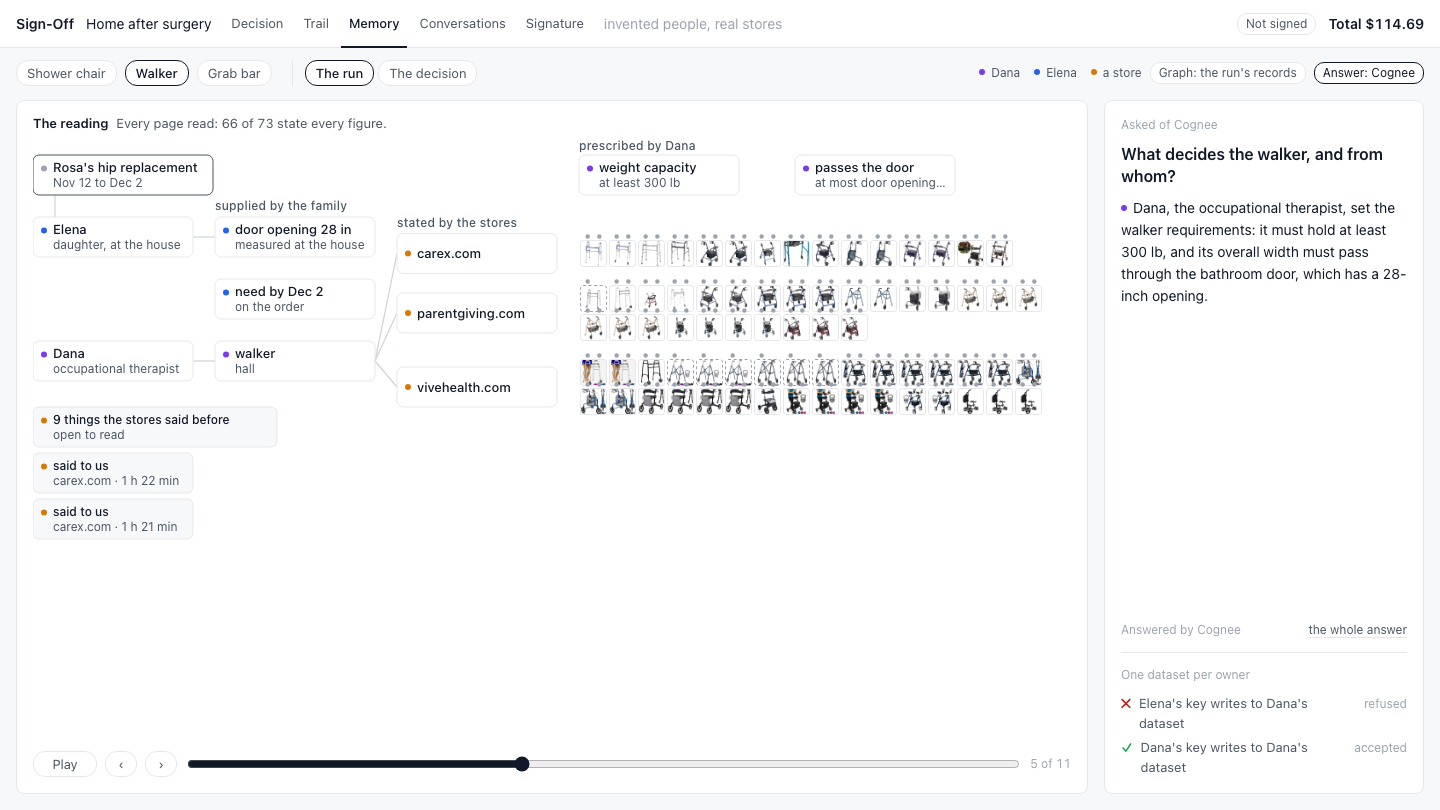
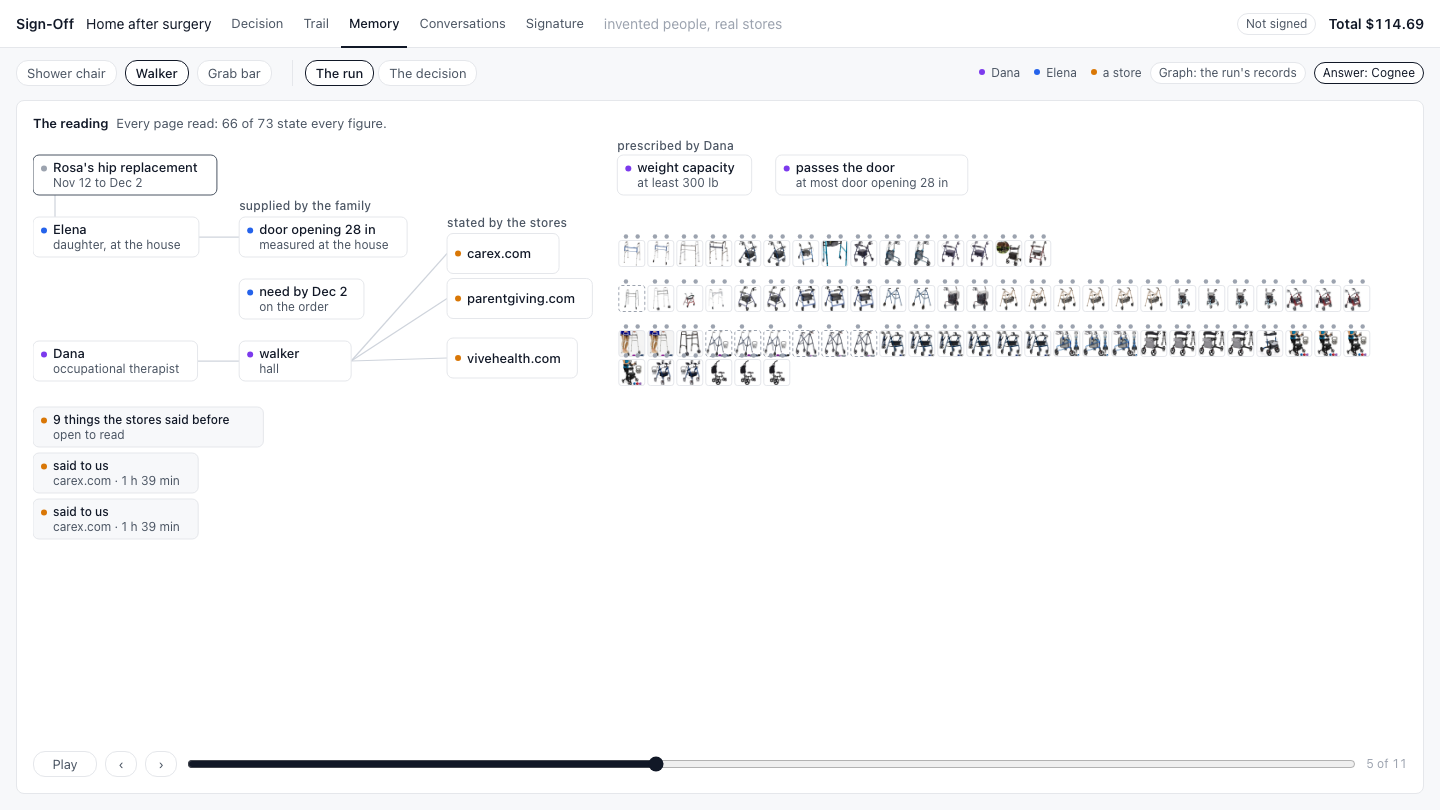
GRAPH: no ellipsis in the replay: cards sized to their text, names wrapped under the photo, sites in full; side panel opens over the canvas; a failed read is said

diff --git a/web/graph/explore.js b/web/graph/explore.js
@@ -9,9 +9,29 @@ const esc = (s) => String(s ?? "").replace(/[&<>"]/g, (c) => ({ "&": "&amp;", "<
 const ownerClass = (o) => (o === "issuer" || o === "shopper" ? o : o === "system" || o === "web" ? "" : "store");
 const short = (s, n) => (String(s || "").length > n ? String(s).slice(0, n - 1).trimEnd() + "…" : String(s || ""));
 const clock = (at) => (at ? String(at).slice(11, 16) : "");
-const FW = px(180);                                                // a fact quoted from a message is a wider card
-const GW = px(244);                                                // the one node that stands for everything recalled
-const boxW = (n) => (n.group ? GW : n.kind === "context_fact" || n.kind === "event" ? FW : CW);
+const INK = document.createElement("canvas").getContext("2d");
+const FACE = getComputedStyle(document.documentElement).getPropertyValue("--f") || "system-ui, sans-serif";
+/** The width a text takes at a size (in the design's px) and weight, with a little room to spare. */
+function wide(text, size, weight = 400) { INK.font = `${weight} ${px(size)}px ${FACE}`; return INK.measureText(String(text ?? "")).width * 1.05; }
+/** Whole words onto as many lines as it takes for each to fit `max`; a word is never broken or cut. */
+function wrap(text, size, weight, max) {
+  const lines = [];
+  for (const word of String(text ?? "").split(/\s+/).filter(Boolean)) {
+    const last = lines[lines.length - 1];
+    if (last != null && wide(last + " " + word, size, weight) <= max) lines[lines.length - 1] = last + " " + word;
+    else lines.push(word);
+  }
+  return lines;
+}
+const WIDTHS = new Map();
+/** A card is as wide as its words need. */
+function boxW(n) {
+  if (!WIDTHS.has(n.id)) {
+    const one = n.kind === "store" || !n.sub;
+    WIDTHS.set(n.id, Math.max(px(112), Math.max(wide(n.label, 13, 500), one ? 0 : wide(n.sub, 12)) + px(32)));
+  }
+  return WIDTHS.get(n.id);
+}
 const REASONS = ["outside", "unclear", "not stated", "struck", "struck before"];
 
 let X = null;      // the mounted exploration: data, elements, current stage and positions
@@ -36,8 +56,10 @@ function plan(k) {
   S.forEach((s, i) => s.node_ids_set_aside.forEach((id) => asideAt.set(id, i)));
   const P = new Map(), lines = [], texts = [];
   let leftBottom = 2 * (CH + px(22));
-  const put = (id, x, y, more = {}) => P.set(id, { x, y, ...more, o: (added.get(id) ?? 0) <= k ? more.o ?? 1 : 0 });
-  const GAP = px(22), XI = CW + GAP, XS = XI + CW + GAP, PX0 = XS + CW + px(22), YROW = H * 0.57, YB = H * 0.77;
+  const put = (id, x, y, more = {}) => P.set(id, { x, y, w: nodes.has(id) && nodes.get(id).kind !== "product" ? boxW(nodes.get(id)) : undefined, ...more, o: (added.get(id) ?? 0) <= k ? more.o ?? 1 : 0 });
+  const GAP = px(22), wOf = (kinds) => Math.max(px(112), ...data.nodes.filter((n) => kinds.includes(n.kind)).map(boxW));
+  const XI = wOf(["person", "event", "context_person"]) + GAP, XS = XI + wOf(["order_item", "home_fact", "sheet_value", "context_message"]) + GAP;
+  const PX0 = XS + wOf(["store", "web"]) + px(22), YROW = H * 0.57, YB = H * 0.77, FW = wOf(["context_fact"]);
 
   // the order: who, the item, the measurement
   const people = data.nodes.filter((n) => n.kind === "person");
@@ -55,8 +77,9 @@ function plan(k) {
     around.forEach((n, i) => put(n.id, 0, CH + px(26) + i * (CH + px(10))));
     notes.forEach((n, i) => put(n.id, XI, i * (CH + px(10))));
     const fy = new Map();
-    known.forEach((n, i) => { fy.set(n.id, i * (CH + px(6))); put(n.id, XS, fy.get(n.id), { w: FW, o: k >= iOrder && !n.used ? 0.4 : 1 }); });
-    const XD = XS + FW + px(150), XE = XD + CW + px(18);
+    known.forEach((n, i) => { fy.set(n.id, i * (CH + px(6))); put(n.id, XS, fy.get(n.id), { o: k >= iOrder && !n.used ? 0.4 : 1 }); });
+    const verbs = data.edges.filter((e) => e.feeds).map((e) => wide(e.verb + " ✓", 12));
+    const XD = XS + FW + Math.max(px(120), ...verbs) + px(28), XE = XD + wOf(["person"]) + px(18);
     const want = (id) => { const ys = data.edges.filter((e) => e.feeds && e.to === id).map((e) => fy.get(e.from)); return ys.length ? ys.reduce((a, b) => a + b, 0) / ys.length : null; };
     const issuer = people.find((n) => n.id === "person:issuer"), shopper = people.find((n) => n.id === "person:shopper");
     [item, ...limits].forEach((n, i) => put(n.id, XE, i * (CH + px(8))));          // prescribed: the order and its rules
@@ -86,14 +109,15 @@ function plan(k) {
     leftBottom = yD + ROW;
     if (data.sources?.supplied && supplied.length) texts.push({ x: XI, y: yS - px(7), cls: "src", html: esc(data.sources.supplied) });
     // the rules, above the products
-    limits.forEach((n, i) => put(n.id, PX0 + i * (CW + px(56)), 0));
+    let lx = PX0;
+    limits.forEach((n) => { put(n.id, lx, 0); lx += boxW(n) + px(24); });
     // the event's people, messages and facts fold back into it
     [...around, ...notes, ...known].forEach((n) => put(n.id, 0, 0, { o: 0, w: boxW(n) }));
   }
   // what it already knows: one node for all of it, and on their own only the few that bear on this item's pick
   const memories = data.nodes.filter((n) => n.kind === "memory");
   const own = memories.filter((n) => n.own), all = memories.find((n) => n.group);
-  if (all) put(all.id, 0, leftBottom + px(4), { w: GW });
+  if (all) put(all.id, 0, leftBottom + px(4));
   own.forEach((n, i) => put(n.id, 0, leftBottom + px(4) + (i + (all ? 1 : 0)) * (CH + px(6))));
   memories.filter((n) => !n.own && !n.group).forEach((n) => put(n.id, 0, leftBottom + px(4), { o: 0 }));
 
@@ -145,17 +169,19 @@ function plan(k) {
   const searched = reviews.map((r) => r.product);
   const order = iRank >= 0 ? S[iRank].order : [];
   const webbed = iWeb >= 0 && k >= iWeb;
-  const RBIG = px(36), GS = 1.15, CY = H * 0.47;
-  const gateX = W - CW * GS - px(2), leftEdge = XI + CW + px(26), head = gateX - px(40) - RBIG;
+  const RBIG = px(36), GS = 1.15, CY = H * 0.34;
+  const gateW = nodes.has("gate") ? boxW(nodes.get("gate")) * GS : 0;
+  const gateX = W - gateW - px(2), leftEdge = XS + px(40), head = gateX - px(52) - RBIG;
   let TOP = Math.min(5, order.length);
-  while (TOP > 2 && (head - leftEdge - RBIG) / (TOP - 1) < px(104)) TOP -= 1;
+  while (TOP > 2 && (head - leftEdge - RBIG) / (TOP - 1) < px(132)) TOP -= 1;
   const big = new Set(ranked ? order.slice(0, TOP) : webbed ? searched : []);
   const linePos = new Map();
   if (ranked) {
     const n = TOP, step = n > 1 ? Math.min(px(170), (head - leftEdge - RBIG) / (n - 1)) : 0;
     order.slice(0, TOP).forEach((id, i) => linePos.set(id, { x: head - i * step, y: CY }));
     // the rest that pass, in order, in a quiet block under them
-    const tail = order.slice(TOP), trows = 2, tsp = px(18), ty = CY + RBIG + px(100);
+    const tail = order.slice(TOP), trows = 2, tsp = px(18), named0 = order.slice(0, TOP).map((id) => wrap(nodes.get(id).label, 14, 600, (TOP > 1 ? step : px(200)) - px(14)).length);
+    const ty = CY + RBIG + px(32) + Math.max(1, ...named0) * px(17) + px(72);
     tail.forEach((id, i) => linePos.set(id, { x: leftEdge + px(8) + Math.floor(i / trows) * tsp, y: ty + (i % trows) * tsp }));
     if (tail.length) texts.push({ x: leftEdge + px(8) + Math.ceil(tail.length / trows) * tsp + px(6), y: ty + px(13), cls: "gs", html: `${tail.length} more that pass` });
   } else if (webbed) {
@@ -165,8 +191,8 @@ function plan(k) {
 
   if (asking) {
     const LANE = px(24), MW = px(84), RW = px(64), xp = PX0 + RB, spine = xp + RB + px(10), xm = spine + px(10);
-    const storeX = W - CW, xr2 = storeX - RW - px(36), xg = (xm + MW + xr2) / 2;
-    const room = xg - (xm + MW), shown = Math.max(1, Math.floor((2 * room - px(34)) / px(70)));   // how many withheld parts fit on the line
+    const storeX = W - wOf(["store"]), xr2 = storeX - RW - px(36), xg = (xm + MW + xr2) / 2;
+    const room = xg - (xm + MW);
     let ly = YROW - px(46), kept = 0;
     const top = ly;
     for (const pid of S[iAsk].row || []) {
@@ -178,10 +204,12 @@ function plan(k) {
       lines.push({ raw: [xp + RB, cy, spine, cy], cls: "" }, { raw: [spine, ly + px(9), spine, ly + (mine.length - 1) * LANE + px(9)], cls: "" });
       for (const m of mine) {
         const y9 = ly + px(9), chips = m.removed || [];
+        let shown = chips.length;                                   // as many whole parts as fit on the line, never a cut one
+        while (shown > 1 && wide(chips.slice(0, shown).map((c) => c.text).join(" · ") + " +9", 12, 500) > 2 * room - px(16)) shown -= 1;
         P.set(m.id, { x: xm, y: ly, o: 1, w: MW, h: px(18) });
         lines.push({ raw: [spine, y9, xm, y9], cls: "" }, { raw: [xm + MW, y9, xg, y9], cls: m.stopped ? "fails" : "lit" });
         // what the guard withheld sits on the guard line, struck
-        if (chips.length) texts.push({ x: xg, y: y9 + px(3.5), cls: "chip on mid", html: chips.slice(0, shown).map((c) => esc(short(c.text, 9))).join(" · ") + (chips.length > shown ? ` +${chips.length - shown}` : "") });
+        if (chips.length) texts.push({ x: xg, y: y9 + px(3.5), cls: "chip on mid", html: chips.slice(0, shown).map((c) => esc(c.text)).join(" · ") + (chips.length > shown ? ` +${chips.length - shown}` : "") });
         const r = data.nodes.find((n) => n.kind === "reply" && n.message === m.id);
         if (r) {
           P.set(r.id, { x: xr2, y: ly, o: 1, w: RW, h: px(18) });
@@ -202,7 +230,7 @@ function plan(k) {
   for (const p of products) {
     const h = home.get(p.id), born = k >= iSearch, gone = asidePos.get(p.id), line = linePos.get(p.id);
     const src = P.get(h.store);
-    const where = !born ? { x: src.x + CW / 2, y: src.y + CH / 2 } : gone || line || h;
+    const where = !born ? { x: src.x + src.w / 2, y: src.y + CH / 2 } : gone || line || h;
     P.set(p.id, { ...where, o: born ? (gone ? 0.75 : 1) : 0, r: gone ? (gone.quiet ? RQ : RS) : big.has(p.id) ? (ranked ? RBIG : RB) : ranked ? px(8) : R,
       big: big.has(p.id) && !gone, aside: !!gone, dashed: k >= iRead && (S[iRead]?.not_stated || []).includes(p.id),
       read: k >= iRead, pick: ranked && p.picked, checked: limits.filter((l) => { const i = S.findIndex((x) => x.limit === l.id); return i >= 0 && i <= k; }).map((l) => l.id) });
@@ -210,10 +238,10 @@ function plan(k) {
   if (web) put(web.id, XS, YROW - CH / 2, ranked ? { o: 0 } : {});
   reviews.forEach((r) => {
     const p = P.get(r.product);
-    P.set(r.id, { x: p.x - px(36), y: p.y + p.r + px(ranked ? 12 : 9), o: (added.get(r.id) ?? 99) <= k && p.big && !asking ? 1 : 0, pill: true });
+    P.set(r.id, { x: p.x - px(36), y: p.y + p.r + px(10), w: px(72), h: px(18), o: (added.get(r.id) ?? 99) <= k && p.big && !asking ? 1 : 0, pill: true });
   });
   // the gate, and the cart beyond it
-  if (nodes.has("gate")) put("gate", gateX, CY - (CH * GS) / 2, { gate: true, s: GS, w: CW * GS, h: CH * GS });
+  if (nodes.has("gate")) put("gate", gateX, CY - (CH * GS) / 2, { gate: true, s: GS, w: gateW, h: CH * GS });
   data.nodes.filter((n) => n.kind === "cart").forEach((n, i) => put(n.id, gateX, CY + CH * GS + px(14) + i * (CH + px(8))));
 
   // the lines of this stage
@@ -221,7 +249,7 @@ function plan(k) {
   const card = (a, b, cls = "", label = "") => { if (vis(a) && vis(b)) lines.push({ a, b, cls, label, card: true }); };
   for (const e of data.edges) {
     if (e.feeds) { if (k >= iOrder && vis(e.from) && vis(e.to)) lines.push({ a: e.from, b: e.to, card: true, cls: e.matches === false ? "fails" : "lit",
-      label: short(e.verb, 22) + (e.matches === true ? " ✓" : e.matches === false ? " ✕" : ""), lt: nodes.get(e.to)?.kind === "person" ? 0.5 : 0.25 }); }
+      label: e.verb + (e.matches === true ? " ✓" : e.matches === false ? " ✕" : ""), lt: nodes.get(e.to)?.kind === "person" ? 0.5 : 0.3 }); }
     else if (e.verb === "says") card(e.from, e.to, "", "");
     else if (e.verb === "wrote" && nodes.get(e.to)?.kind === "context_message") { if (nodes.get(e.from)?.kind === "context_person") card(e.from, e.to, "", ""); }
     else if (e.prescribed) { if (eventPhase) card(e.from, e.to, "", ""); }
@@ -249,17 +277,19 @@ function plan(k) {
     }
   }
   if (ranked) {
-    order.slice(0, TOP).forEach((id) => {
+    const room = (TOP > 1 ? Math.abs(P.get(order[0]).x - P.get(order[1]).x) : px(200)) - px(14), LH = px(17);
+    const named = order.slice(0, TOP).map((id) => ({ id, lines: wrap(nodes.get(id).label, 14, 600, room) }));
+    const most = Math.max(1, ...named.map((x) => x.lines.length));
+    named.forEach(({ id, lines }) => {
       const n = nodes.get(id), p = P.get(id);
-      const room = order.length > 1 ? Math.abs(P.get(order[0]).x - P.get(order[1]).x) : px(170);
-      texts.push({ x: p.x, y: p.y - p.r - px(24), cls: "pn big mid", html: esc(short(n.label, Math.max(8, Math.min(20, Math.floor(room / px(8.8)))))) });
-      texts.push({ x: p.x, y: p.y - p.r - px(8), cls: "pp big mid", html: esc((n.sub || "").split(" · ")[0]) + (n.picked ? " · the pick" : "") });
+      lines.forEach((t, i) => texts.push({ x: p.x, y: p.y + p.r + px(20) + i * LH, cls: "pn big mid", html: esc(t) }));
+      texts.push({ x: p.x, y: p.y + p.r + px(22) + most * LH, cls: "pp big mid", html: esc((n.sub || "").split(" · ")[0]) + (n.picked ? " · the pick" : "") });
+      const r = reviews.find((x) => x.product === id);
+      if (r && P.get(r.id)) Object.assign(P.get(r.id), { x: p.x - px(36), y: p.y + p.r + px(32) + most * LH });
     });
-  } else if (webbed) {
-    const fit = Math.max(6, Math.floor(Math.min(px(120), (W - PX0 - px(6)) / Math.max(1, searched.length)) / px(7.4)));
-    searched.forEach((id) => { const p = P.get(id); if (p.big) texts.push({ x: p.x, y: p.y - RB - px(7), cls: "pn mid", html: esc(short(nodes.get(id).label, fit)) }); });
+    X.rankedBottom = CY + RBIG + px(32) + most * LH + px(52);
   }
-  if (asking) (S[iAsk].row || []).forEach((id) => { const p = P.get(id); texts.push({ x: p.x + RB, y: p.y + RB + px(14), cls: "pn end", html: esc(short(nodes.get(id).label, 16)) }); });
+  if (asking) (S[iAsk].row || []).forEach((id) => { const p = P.get(id); wrap(nodes.get(id).label, 13, 500, px(170)).forEach((t, i) => texts.push({ x: p.x + RB, y: p.y + RB + px(16) + i * px(16), cls: "pn end", html: esc(t) })); });
   return { P, lines, texts };
 }
 
@@ -273,17 +303,17 @@ function glyph(n) {
   if (n.kind === "product") {
     // a product is its photo; with no photo, a plain tile carrying the first word of its name
     const img = n.image_url ? `<image class="ph" href="${esc(thumb(n.image_url))}" preserveAspectRatio="xMidYMid slice"/>` : "";
-    return `<title>${esc(n.label)} · ${esc(n.sub || "")}</title><rect class="c"/><text class="tw mid">${esc(short(String(n.label || "").split(/\s+/)[0], 4))}</text>${img}<rect class="bd"/><rect class="ring"/><circle class="q q0"/><circle class="q q1"/>`;
+    return `<title>${esc(n.label)} · ${esc(n.sub || "")}</title><rect class="c"/><text class="tw mid">${esc(String(n.label || "").split(/\s+/)[0].slice(0, 4))}</text>${img}<rect class="bd"/><rect class="ring"/><circle class="q q0"/><circle class="q q1"/>`;
   }
   const one = n.kind === "store" || !n.sub;                           // a store's card needs no second line
   const dot = n.kind === "web" || n.kind === "review" ? "" : `<circle class="od ${ownerClass(n.owner)}" cx="${px(11)}" cy="${one ? CH / 2 : px(13.5)}" r="${px(3)}"/>`;
   const tx = dot ? px(20) : px(10);
   if (n.kind === "message") return `<title>${esc(n.sub || "")}</title><rect class="b pill${n.stopped ? " stopped" : ""}" width="${px(84)}" height="${px(18)}" rx="${px(9)}"/><text class="l mid" x="${px(42)}" y="${px(12.5)}">${esc(n.label)}</text>`;
   if (n.kind === "reply") return `<title>${esc(n.sub || "")}</title><rect class="b pill" width="${px(64)}" height="${px(18)}" rx="${px(9)}"/><circle class="od store" cx="${px(12)}" cy="${px(9)}" r="${px(3)}"/><text class="l" x="${px(21)}" y="${px(12.5)}">reply</text>`;
-  if (n.kind === "review") return `<rect class="b pill" width="${px(72)}" height="${px(18)}" rx="${px(9)}"/><text class="l mid" x="${px(36)}" y="${px(12.5)}">${esc(short(n.label, 11))}</text><text class="s mid" x="${px(36)}" y="${px(32)}">${esc(short(n.sub, 15))}</text>`;
+  if (n.kind === "review") return `<rect class="b pill" width="${px(72)}" height="${px(18)}" rx="${px(9)}"/><text class="l mid" x="${px(36)}" y="${px(12.5)}">${esc(n.label)}</text><text class="s mid" x="${px(36)}" y="${px(33)}">${esc(n.sub)}</text>`;
   const w = boxW(n), room = (w - tx - px(6)) / px(6.9);
   return `<title>${esc(n.label)}</title><rect class="b" width="${w}" height="${CH}" rx="${px(6)}"/>${dot}
-    <text class="l" x="${tx}" y="${one ? CH / 2 + px(4.5) : px(17)}">${esc(short(n.label, Math.floor(room)))}</text>${one ? "" : `<text class="s" x="${tx}" y="${px(32)}">${esc(short(n.sub, Math.floor((w - tx - px(6)) / px(6.0))))}</text>`}
+    <text class="l" x="${tx}" y="${one ? CH / 2 + px(4.5) : px(17)}">${esc(n.label)}</text>${one ? "" : `<text class="s" x="${tx}" y="${px(32)}">${esc(n.sub)}</text>`}
     ${n.kind === "gate" ? `<path class="bar" d="M${-px(12)} ${-px(14)}V${CH + px(14)}"/>` : ""}`;
 }
 

diff --git a/web/graph/graph.js b/web/graph/graph.js
@@ -28,7 +28,7 @@ const STATUS = { inside: "meets the order", outside: "outside", unclear: "unclea
 
 let data = null, cognee = null, answer = null, stamp = "", sel = params.get("node"), line = params.get("line_id");
 // Two views of one item: the run growing as a graph (the default), and the five-column detail of the decision.
-let whole = false;
+let whole = false, showAnswer = false;
 let view = params.get("view") === "detail" ? "detail" : "explore", xdata = null, xkey = "", opened = false;
 const active = () => (view === "explore" && xdata?.nodes ? xdata : data);
 
@@ -129,7 +129,10 @@ function drawExplore() {
   $("#ctl").hidden = false;
   controls();
   if (!$("#heads").innerHTML) $("#heads").innerHTML = `<span class="st"><b>&nbsp;</b></span>`;
-  if (!xdata?.stages) { $("#stage").innerHTML = ""; $("#heads").innerHTML = ""; return; }
+  if (!xdata?.stages) {                                               // said, never a blank canvas
+    $("#stage").innerHTML = `<p class="muted" style="padding:1rem 0">${esc(xdata?.error || "The run's records could not be read.")}</p>`;
+    $("#heads").innerHTML = ""; xkey = ""; return;
+  }
   const key = JSON.stringify([xdata, innerWidth, innerHeight]);
   if (key === xkey) return;
   const same = xkey && JSON.parse(xkey)[0].line_id === xdata.line_id;
@@ -222,7 +225,7 @@ function renderBand() {
   $("#band").innerHTML = `${chips}<span class="grow"></span>
     <span class="legend" title="The mark shows whose knowledge it is">${who}</span>
     <span class="pill" title="${esc(data.backend_note)}">Graph: the run's records</span>
-    <span class="pill ${answer?.answered ? "signed" : ""}">${answer?.answered ? "Answer: Cognee" : "Cognee: no answer"}</span>`;
+    <button class="pill ${answer?.answered ? "signed" : ""}" data-answer>${answer?.answered ? "Answer: Cognee" : "Cognee: no answer"}</button>`;
 }
 
 function sourceLine(s) {
@@ -250,6 +253,7 @@ function quoted(n) {
 }
 
 function renderSide() {
+  document.body.classList.toggle("open", !!sel || showAnswer);
   const src = active(), el = $("#side"), nodes = new Map(src.nodes.map((n) => [n.id, n]));
   const n = nodes.get(sel);
   if (sel === "fold") {
@@ -294,12 +298,17 @@ function renderSide() {
     ? `<li><span class="no">✕</span><span class="grow">${esc(data.people[refused.identity] || refused.identity)}'s key writes to ${esc(data.people[refused.dataset_owner] || refused.dataset_owner)}'s dataset</span><span class="when">refused</span></li>` : "";
   const own = refused && (cognee?.log || []).filter((e) => e.action === "write" && e.accepted && e.identity === refused.dataset_owner && e.dataset_owner === refused.dataset_owner).slice(-1)[0];
   const ok = own ? `<li><span class="yes">✓</span><span class="grow">${esc(data.people[own.identity] || own.identity)}'s key writes to ${esc(data.people[own.identity] || own.identity)}'s dataset</span><span class="when">accepted</span></li>` : "";
-  el.innerHTML = `<div class="cap">Asked of Cognee</div><h2>What decides the ${esc(need)}, and from whom?</h2>${body}
+  el.innerHTML = `<div class="cap">Asked of Cognee<button class="x" data-close aria-label="Close">×</button></div><h2>What decides the ${esc(need)}, and from whom?</h2>${body}
     <hr><div class="cap">One dataset per owner</div><ul>${perm}${ok}</ul>
 `;
 }
 
-function render() { if (EMBED) { view = "explore"; draw(); return; } renderTop(); renderBand(); draw(); renderSide(); }
+function render() {
+  if (EMBED) { view = "explore"; draw(); return; }
+  // on the run the canvas takes the whole width; the side panel opens over it for a node or for Cognee's answer
+  document.body.classList.toggle("run", view === "explore");
+  renderTop(); renderBand(); draw(); renderSide();
+}
 
 async function load() {
   const q = line ? `?line_id=${encodeURIComponent(line)}` : "";
@@ -323,12 +332,13 @@ document.addEventListener("click", (e) => {
   if (e.target.closest("[data-again]")) { renderStage.told = false; XP.jump(0, true); XP.play(true, Math.round(27000 / xdata.stages.length)); return; }
   const chip = e.target.closest("[data-line]"), node = e.target.closest("[data-id]"), seg = e.target.closest("[data-view]");
   if (e.target.closest("[data-whole]")) { whole = !whole; renderSide(); return; }
+  if (e.target.closest("[data-answer]")) { showAnswer = !showAnswer; sel = null; XP.select(null); renderSide(); return; }
   if (seg) { view = seg.dataset.view; sel = null; XP.play(false); render(); return; }
   if (e.target.closest("[data-play]")) { XP.play(!XP.playing()); e.target.closest("[data-play]").textContent = XP.playing() ? "Pause" : "Play"; return; }
   if (e.target.closest("[data-step]")) { XP.play(false); XP.step(Number(e.target.closest("[data-step]").dataset.step)); return; }
   if (e.target.closest("#ctl") || (view === "explore" && e.target.closest("#stage"))) return;   // the canvas handles its own clicks
   if (chip) { XP.play(false); line = chip.dataset.line; sel = null; stamp = ""; params.delete("stage"); history.replaceState(null, "", `?line_id=${line}`); load(); return; }
-  if (e.target.closest("[data-close]")) sel = null;
+  if (e.target.closest("[data-close]")) { sel = null; showAnswer = false; XP.select(null); }
   else if (node) sel = sel === node.dataset.id ? null : node.dataset.id;
   else if (e.target.closest("#stage")) sel = null;
   else return;

diff --git a/web/graph/graph.css b/web/graph/graph.css
@@ -163,3 +163,9 @@ svg.xp .k-review .l { font-size: 0.75rem; }
 .stage text { font-size: 0.75rem; }
 svg.xp .k-product .tw { display: none; }
 svg.xp .k-product.noimg .tw { display: block; }
+
+/* the run takes the whole width; the side panel opens over it */
+body.run .wrap { position: relative; }
+body.run .side { position: absolute; right: 1rem; top: 0.75rem; bottom: 1rem; z-index: 5; display: none; box-shadow: 0 0.5rem 1.5rem rgba(17, 24, 39, .12); }
+body.run.open .side { display: flex; }
+button.pill { font: inherit; font-size: 0.75rem; cursor: pointer; }

diff --git a/NOTES/INTEGRATOR.md b/NOTES/INTEGRATOR.md
@@ -2696,3 +2696,8 @@ a remembered measurement on the shelf seen only in code (the shopper's slot is e
 ## GRAPH 15:34 — final state for the 15:39 merge
 - Product nodes are photos, nothing under 12 px: WORKING on `stream/GRAPH` with main (15:29 polling line included) merged in. Rules stage: `web/graph/shots/explore-6.png` (1440 x 810; 73 walker photos, 17 pulled aside grey under "15 outside · 2 unclear"). The embed's last frame after a cold autoplay: `web/graph/shots/embed-last.png` (1320 x 700; five survivors at 72 px, the gate, "Back to the list"). `uv run pytest tests/graph -q` → 20 passed, 1 deselected. /graph/ needs the app restarted after the merge to pick up nothing new in routes, only static files: a reload is enough if the mount already exists.
 - Not checked by me: motion in a non-headless browser; a real 150% zoom (the canvas scales by viewBox; 960 x 540 looked right); the embed inside the decision screen's iframe.
+
+## GRAPH 15:43 — no ellipsis in the replay (your 15:39 fix)
+- DONE: nothing in the replay is cut. Every card is as wide as its measured text ("at most door opening 28 in", "occupational therapist", "Equipment in place before she arrives" in full); the survivors' names wrap to as many lines as they need under the photo, then price, rating and the site in full ("mobilityequip.com"); the withheld parts at the guard are whole or counted ("+2"), never clipped; the web row shows photos, ratings and sites (names wait for the ranking). Five survivors fit across the 1320 frame: `web/graph/shots/embed-last.png`. Full page: `web/graph/shots/explore-2.png`, `explore-9.png`, `explore-11.png`.
+- To give the canvas the width for this, the full page's side panel now opens over the canvas (click a node, or the "Answer: Cognee" pill) instead of sitting beside it.
+- If the records cannot be read (it happened for a moment while main restarted), the canvas says so instead of staying blank.
